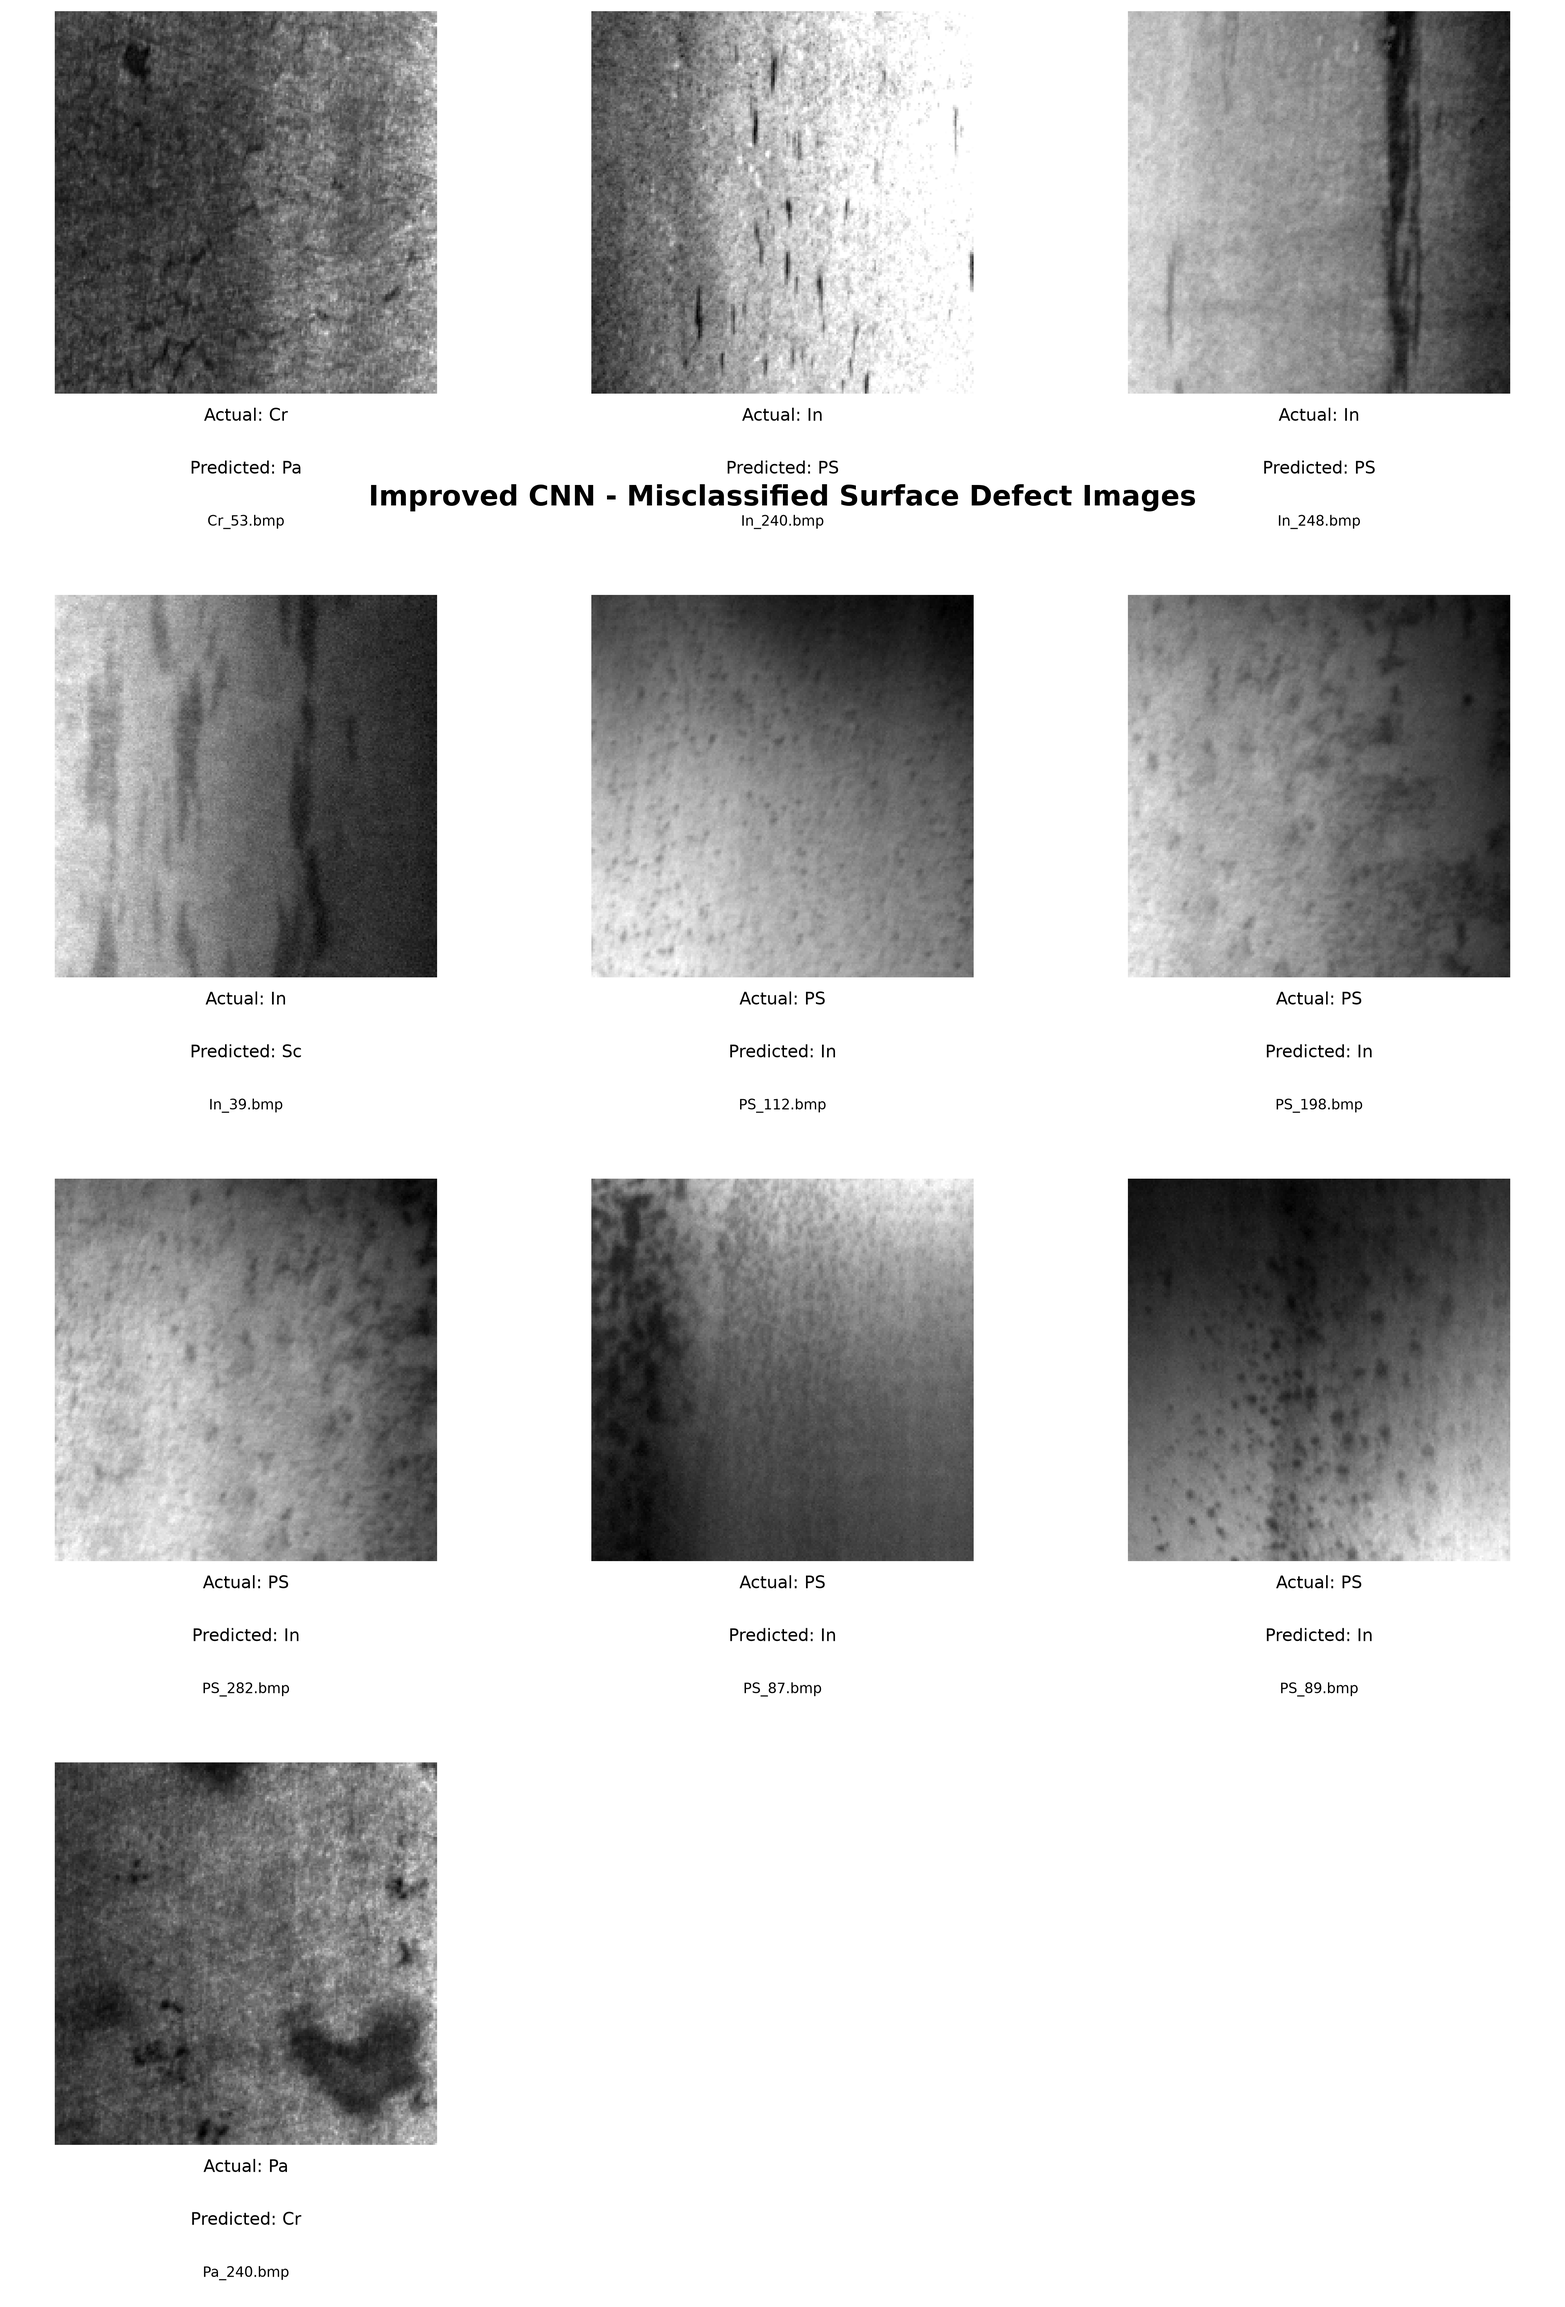
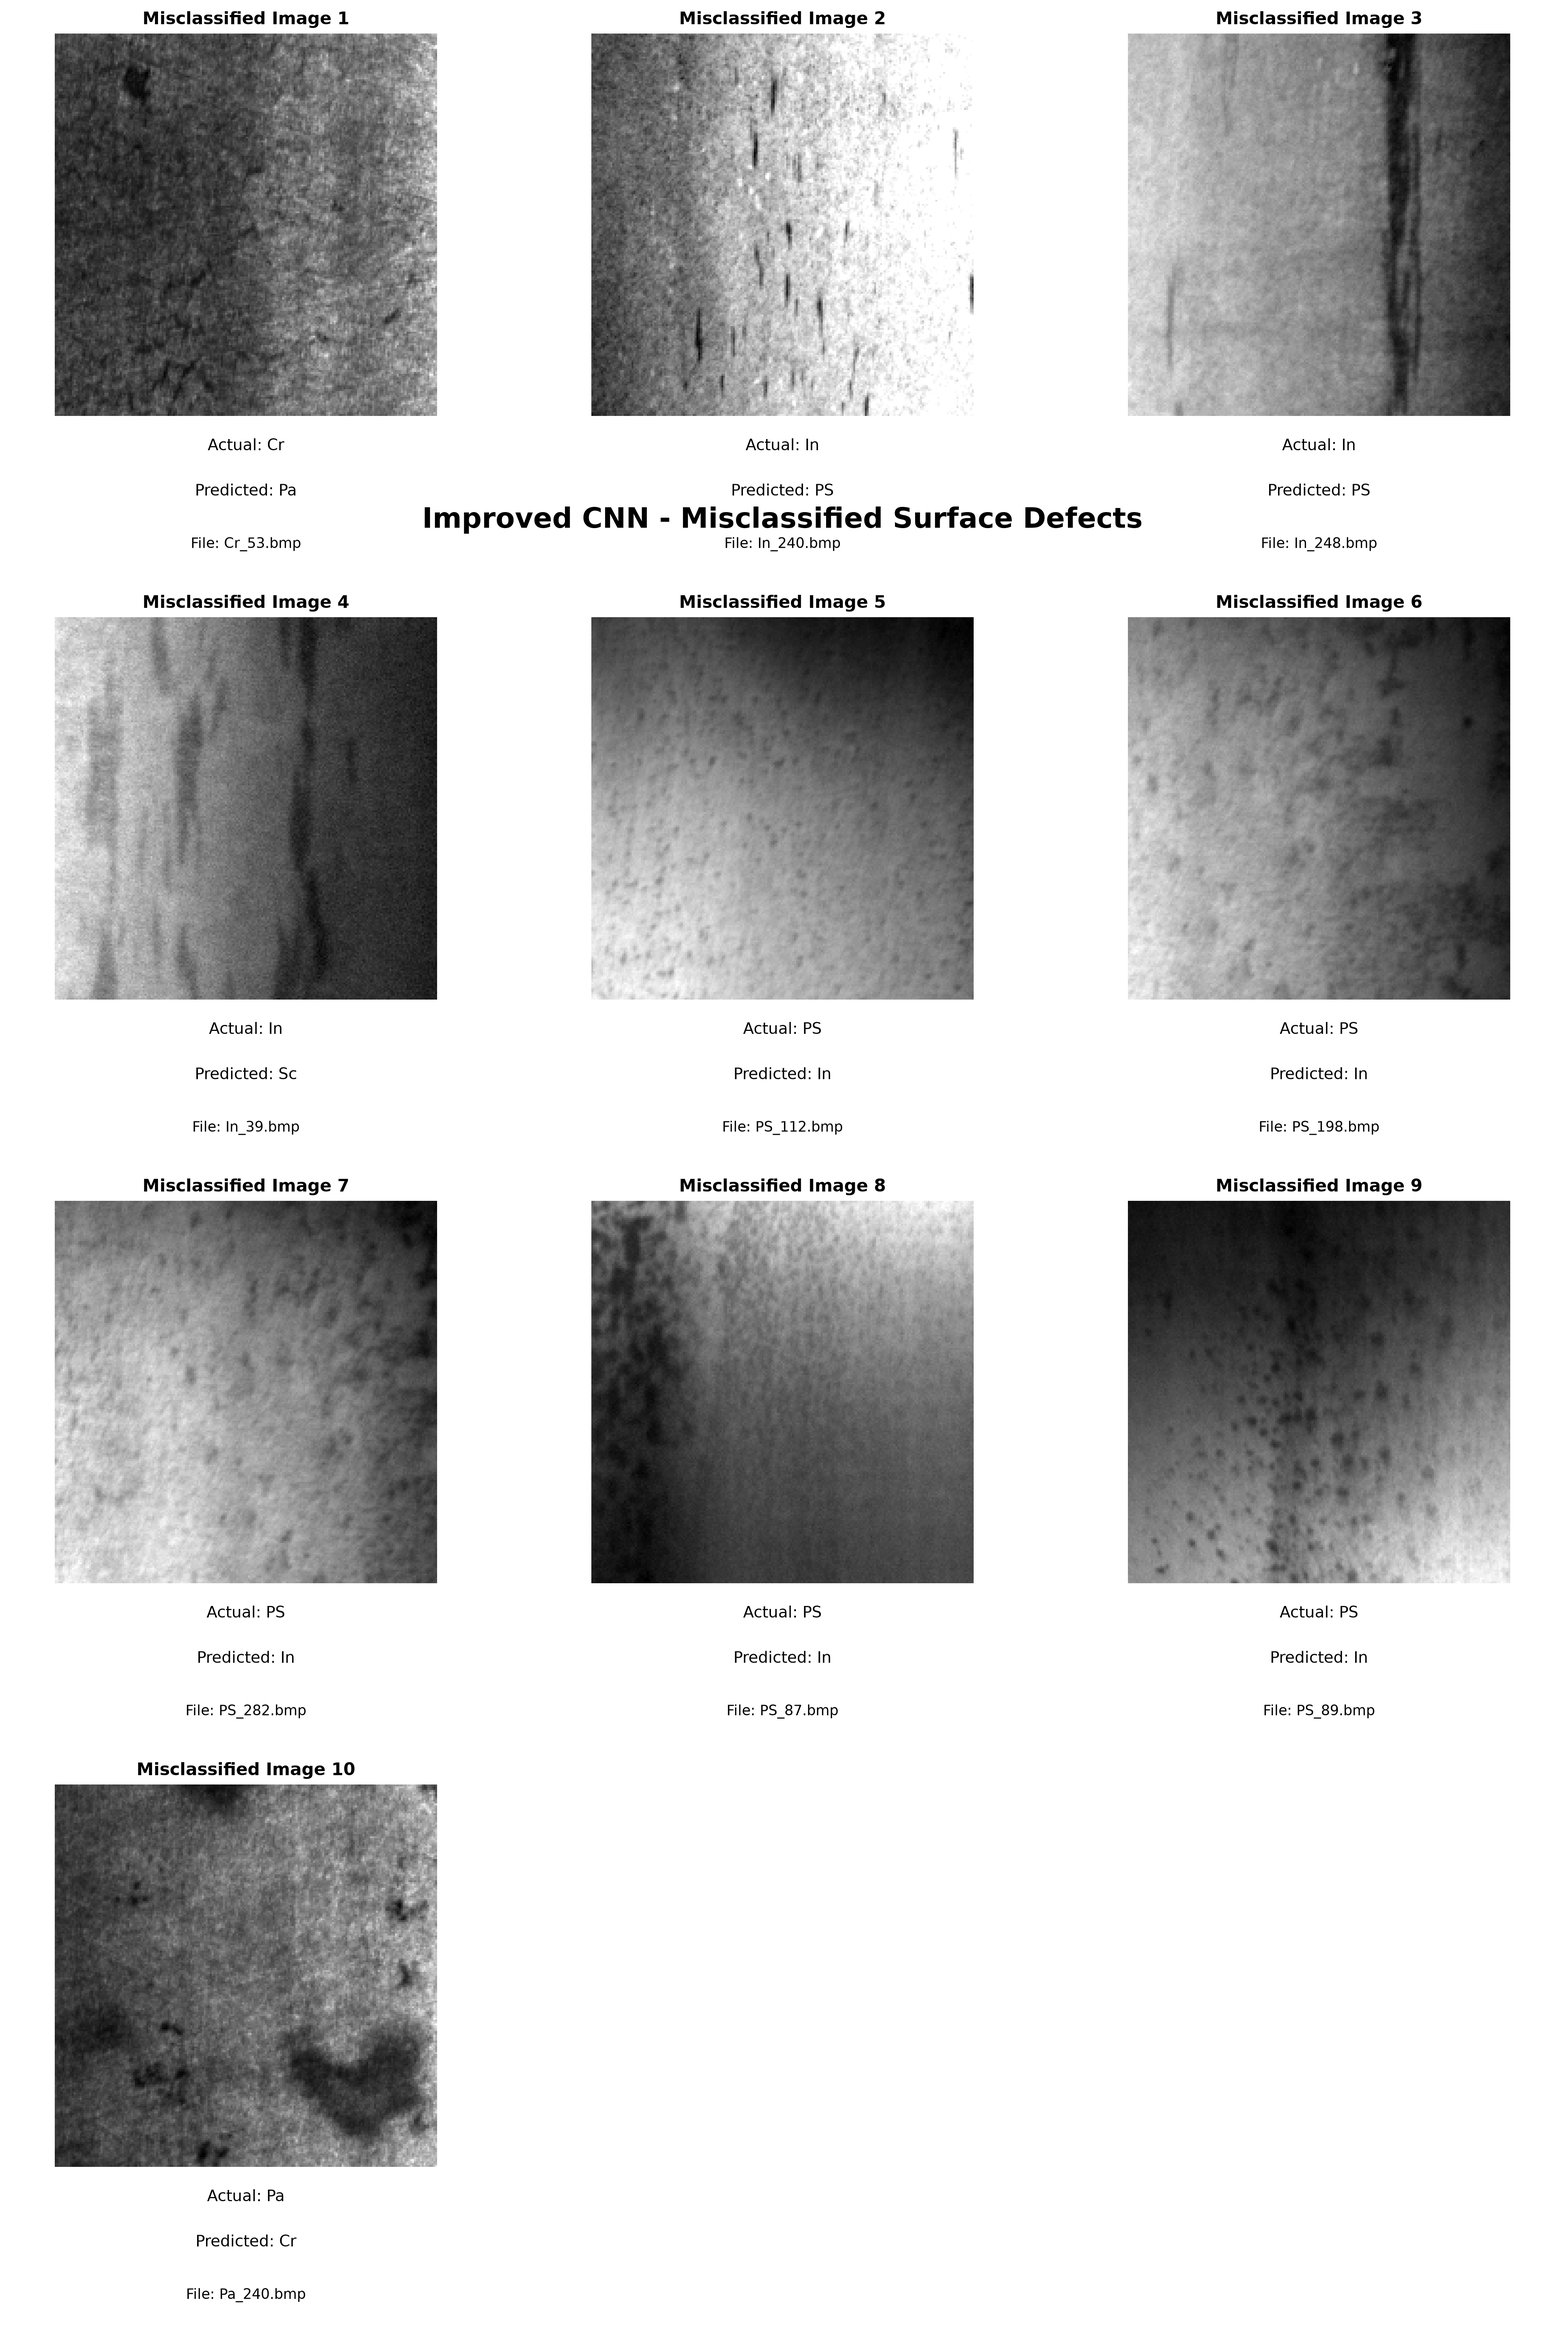
Improve misclassified image gallery layout

diff --git a/src/visualize_misclassified.py b/src/visualize_misclassified.py
@@ -3,7 +3,6 @@ from pathlib import Path
 
 import pandas as pd
 import matplotlib.pyplot as plt
-
 from PIL import Image
 
 
@@ -32,9 +31,7 @@ OUTPUT_FILE = (
 
 df = pd.read_csv(PREDICTIONS_FILE)
 
-errors = df[
-    df["correct"] == False
-].copy()
+errors = df[df["correct"] == False].copy()
 
 print("\nTotal test images:", len(df))
 print("Misclassified images:", len(errors))
@@ -51,55 +48,44 @@ if errors.empty:
 else:
 
     columns = 3
+    rows = (len(errors) + columns - 1) // columns
 
-    rows = (
-        len(errors) + columns - 1
-    ) // columns
-
-    # Fixed-size figure
-
+    # Create figure
     fig = plt.figure(
         figsize=(15, rows * 4.5)
     )
 
     # Main title
-
     fig.suptitle(
-        "Improved CNN - Misclassified Surface Defect Images",
+        "Improved CNN - Misclassified Surface Defects",
         fontsize=18,
         fontweight="bold",
         y=0.98
     )
 
     # ==========================================
-    # 4. CREATE IMAGE AND TEXT PANELS
+    # 4. DISPLAY IMAGES AND PREDICTIONS
     # ==========================================
 
-    for index, (_, row) in enumerate(
-        errors.iterrows()
-    ):
+    for index, (_, row) in enumerate(errors.iterrows()):
 
         row_number = index // columns
-
         column_number = index % columns
 
-        # Position of each gallery item
+        # --------------------------------------
+        # POSITIONING
+        # --------------------------------------
 
-        left = (
-            0.04
-            + column_number * 0.32
-        )
+        left = 0.04 + column_number * 0.32
 
         bottom = (
             0.08
-            + (rows - 1 - row_number)
-            * 0.29
+            + (rows - 1 - row_number) * 0.29
         )
 
         width = 0.28
 
         image_height = 0.19
-
         text_height = 0.075
 
         # --------------------------------------
@@ -115,17 +101,25 @@ else:
             ]
         )
 
-        image_path = Path(
-            row["image"]
-        )
+        image_path = Path(row["image"])
 
+        # Load image
         image = Image.open(
             image_path
         ).convert("L")
 
+        # Display image
         image_ax.imshow(
             image,
             cmap="gray"
+        )
+
+        # Image title
+        image_ax.set_title(
+            f"Misclassified Image {index + 1}",
+            fontsize=11,
+            fontweight="bold",
+            pad=6
         )
 
         image_ax.axis("off")
@@ -146,35 +140,32 @@ else:
         text_ax.axis("off")
 
         # Actual class
-
         text_ax.text(
             0.5,
-            0.85,
+            0.80,
             f"Actual: {row['true_class']}",
             ha="center",
             va="center",
-            fontsize=11,
+            fontsize=10,
             transform=text_ax.transAxes
         )
 
         # Predicted class
-
         text_ax.text(
             0.5,
             0.50,
             f"Predicted: {row['predicted_class']}",
             ha="center",
             va="center",
-            fontsize=11,
+            fontsize=10,
             transform=text_ax.transAxes
         )
 
         # Image filename
-
         text_ax.text(
             0.5,
             0.15,
-            image_path.name,
+            f"File: {image_path.name}",
             ha="center",
             va="center",
             fontsize=9,
@@ -185,22 +176,27 @@ else:
     # 5. SAVE GALLERY
     # ==========================================
 
-    plt.savefig(
+    OUTPUT_FILE.parent.mkdir(
+        parents=True,
+        exist_ok=True
+    )
+
+    fig.savefig(
         OUTPUT_FILE,
         dpi=300,
         bbox_inches="tight"
     )
+
+    plt.close(fig)
 
     print("\nGallery generated successfully!")
 
     print("Saved at:")
     print(OUTPUT_FILE)
 
-    plt.show()
-
 
 # ==========================================
-# 6. PRINT ERROR SUMMARY
+# 6. PRINT MISCLASSIFICATION SUMMARY
 # ==========================================
 
 print("\nMisclassification Summary:")
@@ -225,5 +221,6 @@ if not errors.empty:
             index=False
         )
     )
+
 
 print("\nError analysis completed.")
